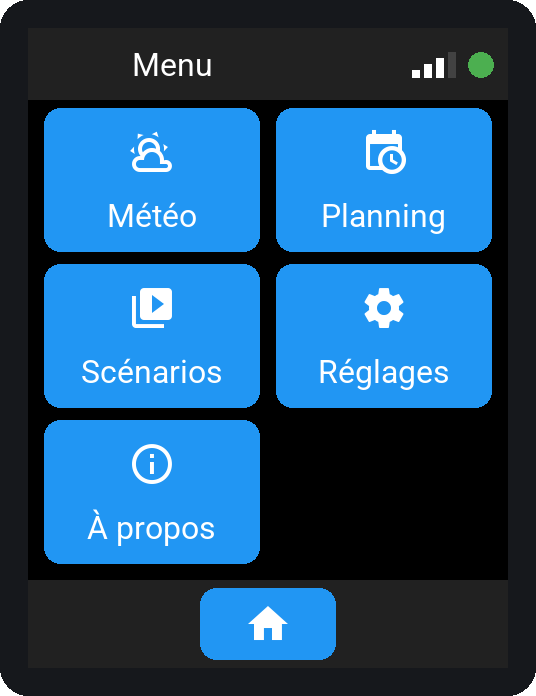
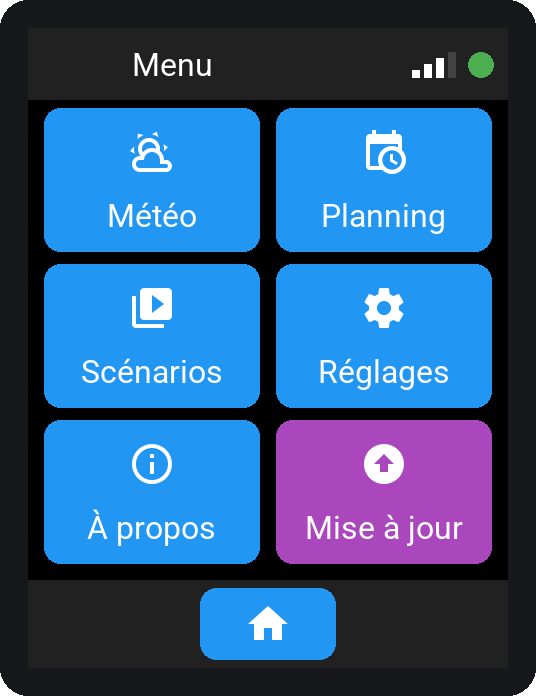
Doc : ARCHITECTURE.md et maquettes Menu, A propos a jour de D047
Oubli signale par le proprietaire : flux de la mise a jour, lignes et role
de acces_public.yaml, acces_prive.yaml, lvgl.yaml et menu.yaml, intervalles
(1 s, 3 h), resume de NOUVEAUTES.md ; maquettes regenerees avec la tuile
« Mise a jour » et le bouton de recherche.

Changed region(s): [[0.5075, 0.6034, 0.9254, 0.8147]]

diff --git a/tools/generer_images_doc.py b/tools/generer_images_doc.py
@@ -15,6 +15,7 @@ S = 2  # echelle de rendu
 
 BLANC, GRIS, GRIS_FONCE, ORANGE = "#FFFFFF", "#9E9E9E", "#303030", "#FF9800"
 BLEU, VERT, ROUGE = "#2196F3", "#4CAF50", "#F44336"
+VIOLET = "#AB47BC"
 INACTIF = "#424242"
 
 MDI = {
@@ -24,6 +25,7 @@ MDI = {
     "info": "\U000F02FD", "soleil": "\U000F0599", "pluie": "\U000F0597", "nuage": "\U000F0590",
     "canape": "\U000F04B9", "depart": "\U000F0A48", "lune": "\U000F0594", "lumiere_eteinte": "\U000F0E4F",
     "film": "\U000F0FCE", "reveil": "\U000F0020", "reglages": "\U000F0493", "verrou": "\U000F033E", "disquette": "\U000F0193",
+    "maj": "\U000F005F",
 }
 
 
@@ -173,6 +175,10 @@ def menu():
         e.bouton(x, y, 108, 72)
         e.icone(nom, x + 54, y + 22, 24)
         e.texte(x + 54, y + 54, texte, BLANC, 16, 400, "mm")
+    # Tuile de mise a jour (D047), seulement quand une mise a jour attend.
+    e.bouton(124, 196, 108, 72, VIOLET)
+    e.icone("maj", 124 + 54, 196 + 22, 24)
+    e.texte(124 + 54, 196 + 54, "Mise à jour", BLANC, 16, 400, "mm")
     e.finir("menu.png")
 
 
@@ -278,6 +284,9 @@ def apropos():
     e.texte(12, 156, "Adresse IP : 192.168.x.x")
     e.texte(12, 196, "Mémoire : 162 Ko libres,")
     e.texte(12, 216, "plus grand bloc 108 Ko")
+    # Recherche d'une mise a jour (D047), binaire public seulement.
+    e.bouton(12, 238, 216, 34)
+    e.texte(120, 255, "Rechercher une mise à jour", BLANC, 16, 400, "mm")
     e.finir("apropos.png")
 
 

diff --git a/docs/ARCHITECTURE.md b/docs/ARCHITECTURE.md
@@ -29,7 +29,7 @@ Trois idées structurent tout le reste :
 | Événement `esphome.hapanel_commande` | API native | Module vers HA | Toutes les commandes |
 | Action `message_accueil(texte, infos)` | API native chiffrée | HA vers module | Message d'accueil (D028), section du blueprint `module.yaml` (D042) |
 | OTA | Réseau local chiffré | PC vers module | Mise à jour du firmware (modules privés, `hapanel.yaml`) |
-| Entité « Firmware » | HTTPS depuis GitHub | GitHub vers module, lancée depuis HA | Mise à jour du binaire public (D039, maquette) |
+| Entité « Firmware » | HTTPS depuis GitHub | GitHub vers module, lancée depuis HA ou depuis l'écran du module (D047) | Mise à jour du binaire public (D039) ; recherche au démarrage, à 3 h et par le bouton d'À propos |
 
 ## Organisation du YAML
 
@@ -57,14 +57,14 @@ le tactile et le réseau (G1). Ces lambdas restent du C++, inséré tel quel dan
 | `hapanel_banc.yaml` | 33 | Banc de l'atelier : `hapanel.yaml`, plus mémoire mesurée, journaux DEBUG et dossier de compilation propre |
 | `hapanel_public.yaml` | 25 | Modules de la maison : binaire public sans secret, fonctions et accès public (D039, D037 révisée) |
 | `packages/application.yaml` | 20 | Liste ordonnée des fichiers de fonctions, commune aux configurations |
-| `packages/acces_prive.yaml` | 15 | Wi-Fi, clé de l'API et OTA depuis le PC, lus dans `secrets.yaml` |
-| `packages/acces_public.yaml` | 57 | Wi-Fi saisi à l'installation, clé reçue de HA, mises à jour depuis GitHub, mise à jour en attente signalée (D045) |
+| `packages/acces_prive.yaml` | 26 | Wi-Fi, clé de l'API et OTA depuis le PC, lus dans `secrets.yaml` ; scripts de mise à jour vides (D047) |
+| `packages/acces_public.yaml` | 332 | Wi-Fi saisi à l'installation, clé reçue de HA, mises à jour depuis GitHub, mise à jour en attente signalée (D045), recherche, confirmation et installation depuis l'écran (D047) |
 | `packages/base.yaml` | 57 | Nœud, ESP32, journaux, écriture des réglages, identité de build |
 | `packages/hardware.yaml` | 116 | Carte ESP32-2432S024C : broches, bus, écran, tactile, sorties PWM, LDR (G2) |
 | `packages/hardware_2432s028.yaml` | 122 | Carte ESP32-2432S028 : mêmes `id`, rétroéclairage GPIO21, tactile résistif XPT2046 |
 | `hapanel_2432s028_banc.yaml` | 38 | Banc sur carte ESP32-2432S028 |
 | `hapanel_2432s028_public.yaml` | 24 | Binaire public de la carte ESP32-2432S028 (D041) |
-| `packages/lvgl.yaml` | 378 | Polices communes, À propos (version, SHA, connexion, adresse IP, mémoire), barre d'état en haut (titre, disquette, mise à jour, Wi-Fi, HA, ☰, D036, D045) et bouton Accueil en bas, suivi de la connexion |
+| `packages/lvgl.yaml` | 401 | Polices communes, À propos (version, SHA, connexion, adresse IP, mémoire, bouton de recherche de mise à jour, D047), barre d'état en haut (titre, disquette, mise à jour, Wi-Fi, HA, ☰, D036, D045) et bouton Accueil en bas, suivi de la connexion |
 | `packages/liaison_ha.yaml` | 489 | Action `maj_valeur`, valeurs reçues, effacement, péremption |
 | `packages/led_veille.yaml` | 320 | Veille, retour à l'accueil, LED, rétroéclairage, réglages du module (D027, D031) |
 | `packages/message_accueil.yaml` | 160 | Action `message_accueil`, message plein écran, entité « Message d'accueil » |
@@ -72,7 +72,7 @@ le tactile et le réseau (G1). Ces lambdas restent du C++, inséré tel quel dan
 | `packages/pages/meteo.yaml` | 194 | Conditions et prévisions |
 | `packages/pages/planning.yaml` | 378 | Résumé et frises |
 | `packages/pages/scenarios.yaml` | 365 | Boutons et lancement |
-| `packages/pages/menu.yaml` | 126 | Tuiles de navigation |
+| `packages/pages/menu.yaml` | 151 | Tuiles de navigation, tuile « Mise à jour » (D047) |
 | `packages/pages/reglages.yaml` | 216 | Réglages de la LED et de l'écran, synchronisés avec HA, cadenas si imposés (D031) |
 | `secrets.yaml` | | Wi-Fi et clé d'API des modules de l'atelier, hors de Git (G9) |
 
@@ -181,7 +181,8 @@ Les tâches périodiques donnent le rythme du module :
 | 1 s | `led_veille.yaml` | Retour à l'accueil, veille, réveil sans HA |
 | 1 s | `scenarios.yaml` | Délais de réponse et de message |
 | 1 s | `message_accueil.yaml` | Fermeture du message d'accueil après 3 min |
-| 1 s | `acces_public.yaml` | Mise à jour en attente (`maj_disponible`, binaire public seulement) |
+| 1 s | `acces_public.yaml` | Mise à jour en attente (`maj_disponible`), tuile du Menu et bouton d'À propos, fermeture de la confirmation sans toucher (binaire public seulement, D047) |
+| 3 h chaque nuit | `acces_public.yaml` | Recherche d'une mise à jour, heure de HA (D047) ; une autre 10 s après la première connexion au Wi-Fi |
 | 2 s | `lvgl.yaml` | Connexion à HA |
 | 10 s | `led_veille.yaml` | Obscurité et rétroéclairage |
 | 10 s | `lvgl.yaml` | Mémoire affichée dans À propos |
@@ -607,7 +608,8 @@ message au toucher, après 3 minutes ou à la déconnexion de HA (P2).
   `hapanel_public` : passer de l'un à l'autre ne recompile pas tout.
 - **Binaire public (D039), mode de déploiement de tous les modules de la maison (D037 révisée) :**
   une étiquette `v<version>` lance GitHub Actions, qui publie une Release (binaire complet, binaire
-  de mise à jour, manifeste) ; chaque module la propose dans HA (entité Firmware). USB en secours. Procédure : [DEPLOIEMENT_PUBLIC.md](DEPLOIEMENT_PUBLIC.md).
+  de mise à jour, manifeste avec le résumé lu dans `NOUVEAUTES.md`) ; chaque module la propose dans
+  HA (entité Firmware) et sur son écran (tuile du Menu, D047). USB en secours. Procédure : [DEPLOIEMENT_PUBLIC.md](DEPLOIEMENT_PUBLIC.md).
 
 ## Sécurité
 
